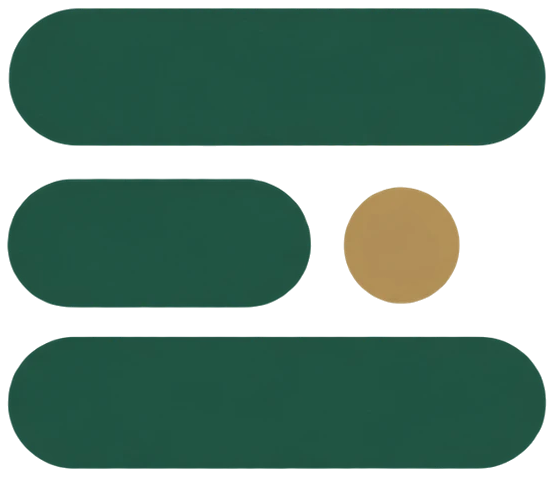
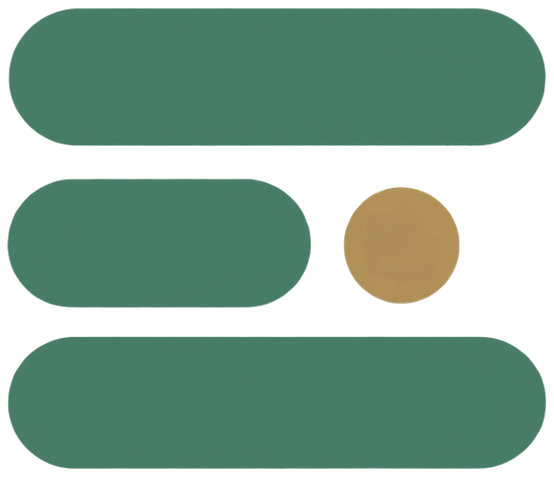
feat: Eir Count page with $5/month pricing, zero-cloud privacy message and app colours

diff --git a/content/eir-content.ts b/content/eir-content.ts
@@ -10,22 +10,22 @@ export const eirNavItems: NavItem[] = [
   { label: 'FAQ', href: '#faq', id: 'faq' },
 ]
 
-const earlyAccessHref = 'mailto:info@asgardpharma.ca?subject=Eir%20early%20access'
+const earlyAccessHref = 'mailto:info@asgardpharma.ca?subject=Eir%20Count%20early%20access'
 
 export const eirHero = {
-  eyebrow: 'Eir by Asgard Pharmaceuticals',
-  headline: ['Private pill', 'counting, right', 'on your phone'],
+  eyebrow: 'Eir Count by Asgard Pharmaceuticals',
+  headline: ['Zero-cloud', 'pill counting', 'on your phone'],
   subtext:
-    "Eir counts tablets and capsules with an AI model that runs entirely on your device. No uploads, no subscriptions, and no patient data leaving your pharmacy.",
+    'Eir Count counts tablets and capsules with AI that runs entirely on your phone. Photos stay on your phone, so a patient label that slips into the frame stays in your pharmacy.',
   primaryCta: { text: 'Get early access', href: earlyAccessHref },
   secondaryCta: { text: 'How it works', href: '#how' },
-  highlights: ['On-device AI', 'Works offline', 'One-time purchase', 'Built in Canada'],
+  highlights: ['Zero-cloud AI', 'Works offline', '14 days free', 'Built in Canada'],
 }
 
 export type EirIconKey =
   | 'confidential'
   | 'border'
-  | 'cost'
+  | 'exposed'
   | 'camera'
   | 'chip'
   | 'verify'
@@ -42,14 +42,14 @@ export interface EirPoint {
 
 export const eirProblem = {
   eyebrow: 'The problem',
-  heading: 'Most counting apps send your photos somewhere else.',
+  heading: 'Cloud counting apps send your photos out the door.',
   intro:
-    "Many pill-counting apps use your phone's camera, then upload every photo to a third-party AI service to do the counting. Images of your counting tray, and sometimes a patient's label caught in the corner of the frame, leave the pharmacy and are processed on servers you don't control, often outside Canada.",
+    "Many pill-counting apps upload every photo of your counting tray to a remote AI server to do the counting. Pharmacy counters are busy: a vial label, a bag tag, a hard copy or a screen ends up in the frame. With a cloud app, that patient information leaves your pharmacy with the photo, and nobody has to make a mistake for it to happen.",
   points: [
     {
       icon: 'confidential',
-      title: 'Patient confidentiality',
-      text: "One stray prescription label in the frame puts a patient's name and medication on someone else's server.",
+      title: 'One label in the frame',
+      text: "A patient's name, Rx number or medication caught in the corner of a photo is personal health information, now sitting on someone else's server.",
     },
     {
       icon: 'border',
@@ -57,9 +57,9 @@ export const eirProblem = {
       text: 'Large AI providers commonly process requests on servers abroad, outside the reach of Canadian privacy protections.',
     },
     {
-      icon: 'cost',
-      title: 'Costs that never stop',
-      text: 'Monthly subscriptions and per-photo AI credits add up to hundreds of dollars a year, for every pharmacy.',
+      icon: 'exposed',
+      title: "You can't unsend a photo",
+      text: "Once it's uploaded, you can't see where it's kept, who can open it, how long it stays, or whether it trains someone else's AI. Your pharmacy is still accountable for it.",
     },
   ] as EirPoint[],
 }
@@ -76,7 +76,7 @@ export const eirHow = {
     {
       icon: 'chip',
       title: 'Counted on your phone',
-      text: "Eir's model, trained in-house by Asgard, identifies and counts every pill directly on the device.",
+      text: "Eir Count's AI, trained in-house by Asgard, finds and counts every pill on the phone itself. No upload, no server, no waiting on Wi-Fi.",
     },
     {
       icon: 'verify',
@@ -87,15 +87,15 @@ export const eirHow = {
 }
 
 export const eirPrivacy = {
-  eyebrow: 'Privacy by design',
-  heading: 'Your photos stay on your phone. Full stop.',
+  eyebrow: 'Edge AI. Zero cloud.',
+  heading: 'What happens on the counter stays on the counter.',
   intro:
-    "Eir was built so that patient privacy isn't a setting you have to find. The model lives on the device, so there is nothing to send.",
+    "Eir Count runs its AI at the edge: on the phone in your hand, not in a data centre. Counting has no upload step to secure, so a label that slips into the frame stays in the pharmacy. Privacy isn't a setting you have to find. It's how Eir Count is built.",
   points: [
     {
       icon: 'upload',
       title: 'Nothing is uploaded',
-      text: 'Photos are processed on your device and are never sent to Asgard or to any third party.',
+      text: 'Photos are counted and kept on your phone. Nothing leaves the phone unless you choose to share it.',
     },
     {
       icon: 'offline',
@@ -117,36 +117,39 @@ export const eirPrivacy = {
 
 export const eirComparison = {
   eyebrow: 'Compare',
-  heading: 'Eir vs. cloud counting apps',
-  columns: ['Typical cloud app', 'Eir'],
+  heading: 'Eir Count vs. cloud counting apps',
+  columns: ['Typical cloud app', 'Eir Count'],
   rows: [
     { label: 'Where counting happens', cloud: 'Remote AI servers', eir: 'On your phone' },
-    { label: 'Photos leave the device', cloud: 'Yes, with every count', eir: 'Never, unless you opt in' },
+    { label: 'Photos leave the device', cloud: 'Yes, with every count', eir: 'Only if you choose to share' },
+    { label: 'A patient label caught in the frame', cloud: 'Uploaded with the photo', eir: 'Stays on your phone' },
     { label: 'Internet required', cloud: 'Yes', eir: 'No' },
     { label: 'Where data is processed', cloud: 'Often outside Canada', eir: 'Inside your pharmacy' },
-    { label: 'Pricing', cloud: 'Monthly subscription and AI credits', eir: 'One-time purchase' },
+    { label: 'Pricing', cloud: 'Monthly subscription plus AI credits', eir: '$5 a month, unlimited counts' },
     { label: 'AI model', cloud: 'General-purpose, third-party', eir: 'Purpose-trained for pill counting' },
   ],
 }
 
 export const eirPricing = {
   eyebrow: 'Pricing',
-  heading: 'Pay once. Count forever.',
-  text: 'Eir is a one-time purchase. No subscriptions, no per-count credits and no surprise bills.',
+  heading: 'Free for 14 days. Then $5 a month.',
+  text: 'One simple plan with unlimited counts and every feature. No per-count credits, no surprise bills, and you can cancel any time. Running more than one store? Pharmacy and group licences are priced per store.',
   plan: {
-    name: 'Eir',
-    price: 'One-time purchase',
-    note: 'Pricing announced at launch',
+    name: 'Eir Count',
+    price: '$5',
+    period: '/month',
+    note: 'After a 14-day free trial',
     includes: [
+      '14 days free to try',
       'Unlimited counts',
-      'Every count processed on your device',
-      'No monthly fees or AI credits',
-      'Optional, opt-in improvement program',
+      'Every count processed on your phone',
+      'No per-count AI credits',
+      'Cancel any time',
     ],
   },
   comparison: {
     value: '$360+',
-    label: 'what a typical $30/month counting subscription costs every year',
+    label: 'a year for a typical $30/month cloud counting subscription. Eir Count is $60 a year.',
   },
 }
 
@@ -155,27 +158,35 @@ export const eirFaq = {
   heading: 'Questions, answered',
   items: [
     {
-      q: 'Does Eir send my photos anywhere?',
-      a: 'No. Counting happens entirely on your phone. Photos are never sent to Asgard or any third party unless you choose to join the improvement program.',
+      q: 'Does Eir Count send my photos anywhere?',
+      a: 'Not to count them. Counting happens entirely on your phone, and nothing leaves it unless you choose to share it, for example by emailing an export or joining the improvement program.',
+    },
+    {
+      q: 'What if a patient label ends up in the photo?',
+      a: "It stays on your phone. Eir Count never uploads photos to count them, so whatever is in the frame stays in your pharmacy. You also choose how long photos are kept on the phone, from two weeks to forever.",
     },
     {
       q: 'Do I need an internet connection?',
-      a: 'No. The counting model runs on the device, so Eir works without Wi-Fi or mobile data.',
+      a: 'No. The counting model runs on the device, so Eir Count works without Wi-Fi or mobile data.',
     },
     {
       q: 'What is the improvement program?',
       a: 'An optional way to help us train better models by sharing some of your counting photos with Asgard. It is off by default, you can leave at any time, and nothing is shared unless you turn it on.',
     },
     {
-      q: 'Is Eir a subscription?',
-      a: 'No. You pay once for the app. There are no monthly fees and no per-count AI credits.',
+      q: 'How much does Eir Count cost?',
+      a: '$5 a month after a 14-day free trial, with unlimited counts and no per-count AI credits. You can cancel any time.',
     },
     {
-      q: 'Does Eir replace pharmacist verification?',
-      a: 'No. Eir is a counting aid. It highlights every pill it detects so you can check the count quickly, but the pharmacist remains responsible for verifying each prescription.',
+      q: 'Do you offer pharmacy or group pricing?',
+      a: "Yes. Pharmacy licences are priced per store, with discounts for groups. Email info@asgardpharma.ca and we'll put a quote together.",
     },
     {
-      q: 'Which phones will Eir support?',
+      q: 'Does Eir Count replace pharmacist verification?',
+      a: 'No. Eir Count is a counting aid. It highlights every pill it detects so you can check the count quickly, but the pharmacist remains responsible for verifying each prescription.',
+    },
+    {
+      q: 'Which phones will Eir Count support?',
       a: 'Supported devices will be announced at launch. Join the early access list and we will let you know.',
     },
   ],
@@ -183,6 +194,6 @@ export const eirFaq = {
 
 export const eirCta = {
   heading: 'Be the first to count with Eir.',
-  text: "Eir is in development. Join the early access list and we'll let you know when it's ready for your pharmacy.",
+  text: "Eir Count is in development. Join the early access list and we'll let you know when it's ready for your pharmacy.",
   cta: { text: 'Get early access', href: earlyAccessHref },
 }

diff --git a/components/ventures/eir/EirPage.tsx b/components/ventures/eir/EirPage.tsx
@@ -6,7 +6,6 @@ import {
   BadgeCheck,
   Camera,
   Check,
-  CircleDollarSign,
   CloudOff,
   Cpu,
   FileLock2,
@@ -14,6 +13,7 @@ import {
   MapPin,
   Plus,
   ScanSearch,
+  ShieldAlert,
   ShieldCheck,
   Smartphone,
   ToggleRight,
@@ -39,7 +39,7 @@ import {
 const icons: Record<EirIconKey, typeof Camera> = {
   confidential: FileLock2,
   border: Globe,
-  cost: CircleDollarSign,
+  exposed: ShieldAlert,
   camera: Camera,
   chip: Cpu,
   verify: ScanSearch,
@@ -77,7 +77,7 @@ function Hero() {
         <AnimatedSection className="lg:col-span-7">
           <Image
             src="/assets/ventures/eir/logo.png"
-            alt="Eir"
+            alt="Eir Count"
             width={1447}
             height={477}
             priority
@@ -219,7 +219,7 @@ function PrivacyDiagram() {
 
 function Privacy() {
   return (
-    <section id="privacy" className="bg-eir-green text-white py-24 md:py-32 px-8">
+    <section id="privacy" className="bg-eir-deep text-white py-24 md:py-32 px-8">
       <div className="mx-auto max-w-7xl">
         <div className="grid lg:grid-cols-12 gap-12 lg:gap-20 items-center mb-16 md:mb-20">
           <AnimatedSection className="lg:col-span-6">
@@ -261,7 +261,7 @@ function Comparison() {
           <div className="hidden md:block p-5" />
           <div className="p-5 text-text-muted">{cloudLabel}</div>
           <div className="p-5 bg-eir-green text-white flex items-center gap-2">
-            <BadgeCheck size={16} className="text-eir-gold" />
+            <BadgeCheck size={16} className="text-white" />
             {eirLabel}
           </div>
         </div>
@@ -275,8 +275,8 @@ function Comparison() {
               <X size={16} className="mt-0.5 flex-shrink-0 text-text-main/30" />
               {row.cloud}
             </div>
-            <div className="px-5 py-4 md:py-5 bg-eir-green/[0.06] text-eir-green font-semibold flex items-start gap-2">
-              <Check size={16} className="mt-0.5 flex-shrink-0 text-eir-gold" />
+            <div className="px-5 py-4 md:py-5 bg-eir-green/[0.06] text-text-main font-semibold flex items-start gap-2">
+              <Check size={16} className="mt-0.5 flex-shrink-0 text-eir-green" />
               {row.eir}
             </div>
           </div>
@@ -306,7 +306,10 @@ function Pricing() {
         <AnimatedSection className="lg:col-span-6" delay={0.1}>
           <div className="rounded-3xl bg-white border border-text-main/5 shadow-xl p-8 md:p-10 max-w-md lg:ml-auto">
             <Image src="/assets/ventures/eir/logo.png" alt="" width={1447} height={477} className="h-9 w-auto mb-8" />
-            <p className="text-3xl font-bold tracking-tighter text-text-main">{plan.price}</p>
+            <p className="text-5xl font-bold tracking-tighter text-text-main">
+              {plan.price}
+              <span className="text-lg font-semibold tracking-normal text-text-muted">{plan.period}</span>
+            </p>
             <p className="text-sm text-eir-gold font-semibold mt-1 mb-8">{plan.note}</p>
             <ul className="space-y-4 mb-10">
               {plan.includes.map((item) => (

diff --git a/app/eir/page.tsx b/app/eir/page.tsx
@@ -2,9 +2,9 @@ import type { Metadata } from 'next'
 import { EirPage } from '@/components/ventures/eir/EirPage'
 
 export const metadata: Metadata = {
-  title: 'Eir: Private pill counting',
+  title: 'Eir Count: Zero-cloud pill counting',
   description:
-    'Eir counts tablets and capsules with an AI model that runs entirely on your phone. No uploads, no subscriptions, and no patient data leaving your pharmacy.',
+    'Eir Count counts tablets and capsules with AI that runs entirely on your phone. Photos stay on your phone, so patient information stays in your pharmacy. $5 a month after a 14-day free trial.',
 }
 
 export default function Eir() {

diff --git a/tailwind.config.ts b/tailwind.config.ts
@@ -13,9 +13,11 @@ const config: Config = {
         'accent': '#A8A09A',
         'text-main': '#1A1A1A',
         'text-muted': '#666666',
-        // Eir brand (sampled from the Eir logo)
-        'eir-green': '#1F5442',
-        'eir-gold': '#B08D57',
+        // Eir Count brand, matching the app: Western hemlock green and gold since 2026-10-01
+        // (was #1F5442 / #B08D57 sampled from the first logo set); eir-deep is the app's camera-band colour
+        'eir-green': '#457A65',
+        'eir-gold': '#B08D56',
+        'eir-deep': '#15221C',
       },
       fontFamily: {
         sans: ['var(--font-inter)', 'system-ui', 'sans-serif'],

diff --git a/content/site-content.ts b/content/site-content.ts
@@ -43,10 +43,10 @@ export const ventures: Venture[] = [
   },
   {
     slug: 'eir',
-    name: 'Eir',
+    name: 'Eir Count',
     href: '/eir/',
     category: 'Private pill counting',
-    description: 'On-device pill counting for pharmacies: patient photos never leave the phone, it works offline, and it is a one-time purchase.',
+    description: 'Zero-cloud pill counting for pharmacies: the AI runs on the phone, patient photos stay on it, and it works offline. $5 a month after a 14-day free trial.',
     status: 'In development',
     logo: {
       wordmark: '/assets/ventures/eir/wordmark.png',
